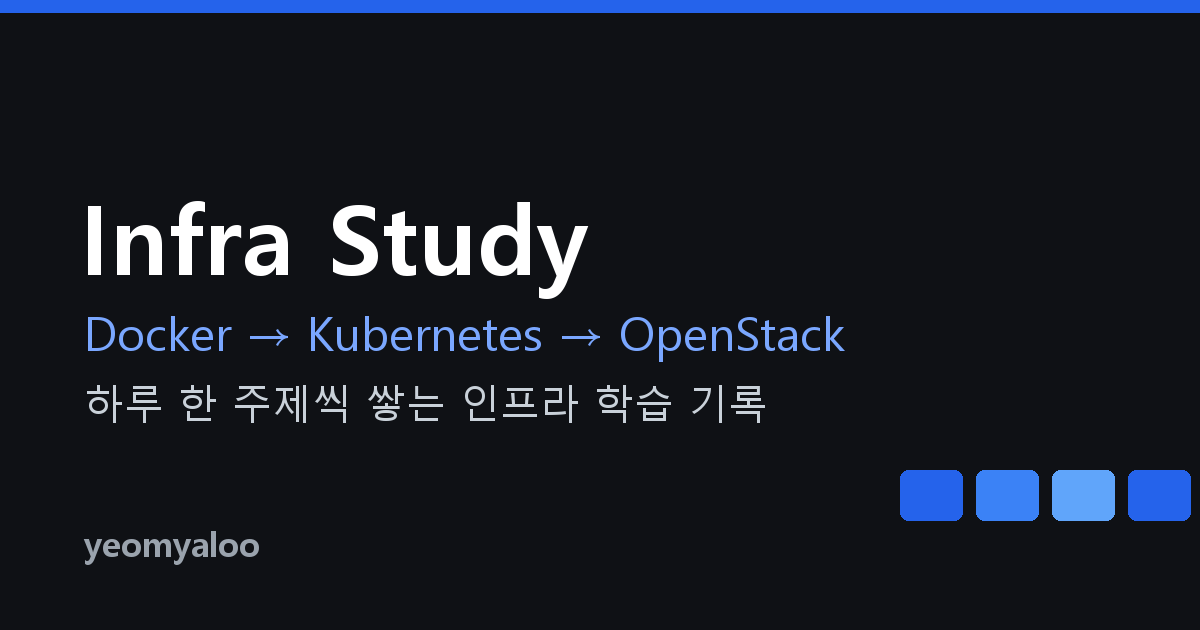
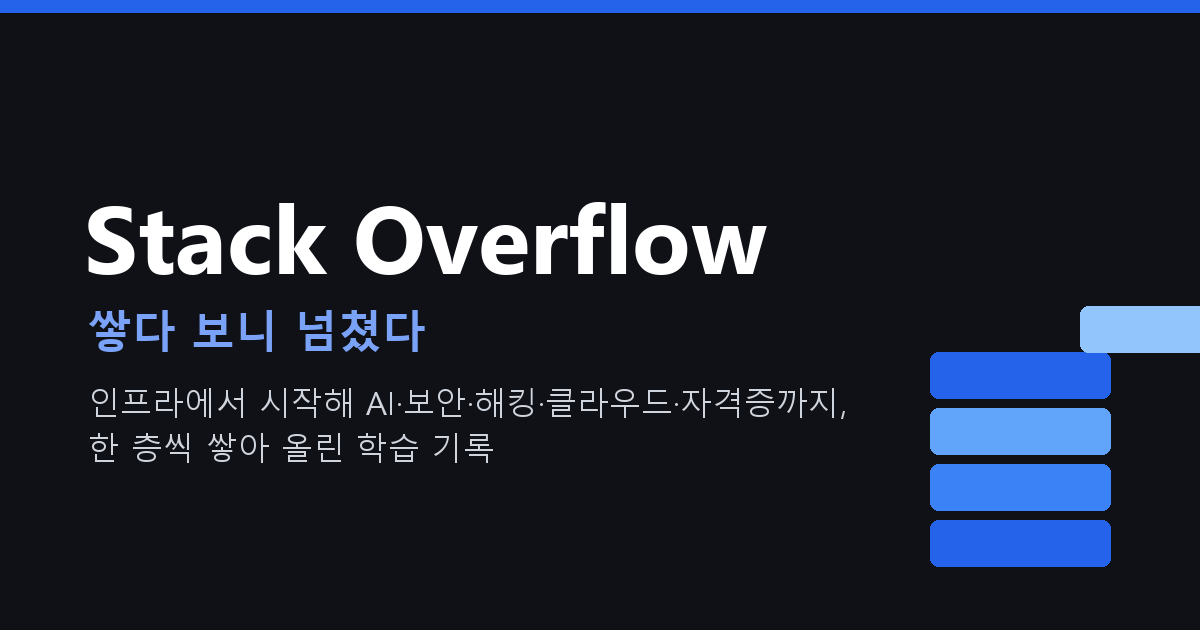
사이트 제목을 "Stack Overflow — 쌓다 보니 넘쳤다"로 변경
제목·짧은 제목·설명, 홈 소개, 대표 이미지(og-default.png)를 새 제목으로 바꾸고,
RSS 채널 설명이 사이트 설명을 쓰도록 rss.xml 템플릿 추가. URL은 그대로.

diff --git a/posts/_index.md b/posts/_index.md
@@ -1,9 +1,9 @@
 ---
-title: "Infra Study"
-description: "Docker에서 Kubernetes, OpenStack까지 — 하루 한 주제씩 쌓는 인프라 학습 기록"
+title: "Stack Overflow — 쌓다 보니 넘쳤다"
+description: "인프라에서 시작해 AI·보안·해킹·클라우드·자격증까지, 한 층씩 쌓아 올린 학습 기록"
 ---
 
-컨테이너 한 개에서 시작해 프라이빗 클라우드까지, 하루에 한 주제씩 키워 가는 인프라 학습 기록입니다.
+인프라에서 시작해 AI·보안·해킹·클라우드·자격증까지, 한 층씩 쌓아 올린 학습 기록입니다. 컨테이너 한 개에서 출발한 인프라 트랙은 이렇게 이어집니다.
 
 ```
 Docker → Kubernetes → 가상화·네트워크 기초 → OpenStack → OpenStack 위의 Kubernetes

diff --git a/README.md b/README.md
@@ -1,4 +1,4 @@
-# Infra Study 블로그
+# Stack Overflow — 쌓다 보니 넘쳤다
 
 Docker → Kubernetes → OpenStack 인프라 학습 기록을 올리는 Hugo 사이트입니다.
 👉 https://yeomyaloo.github.io/yeomyaloo.github.io-infra/
